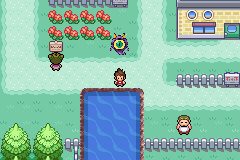
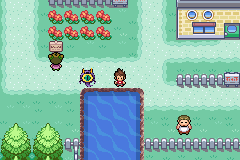
fix: aligner la hauteur des quatre vues de la Patrouille sur Nathan

Changed region(s): [[0.4375, 0.1875, 0.5542, 0.3438], [0.3208, 0.4375, 0.4083, 0.5625]]

diff --git a/tools/yokai/convertir_patrouille_oni.py b/tools/yokai/convertir_patrouille_oni.py
@@ -5,12 +5,15 @@ from PIL import Image
 import json,hashlib
 R=Path(__file__).resolve().parents[2];D=R/'graphics/yokai_characters/patrouille_oni';P=R/'docs/patrouille-oni-20261024';P.mkdir(exist_ok=True)
 source=D/'source/planche-generee.png';im=Image.open(source).convert('RGBA')
+reference=Image.open(R/'graphics/yokai_characters/nathan/normal.png').convert('RGBA').crop((0,0,16,32)).getbbox()
+assert reference
+height=reference[3]-reference[1];baseline=reference[3]
 colors=[(0,0,0),(24,8,32),(64,32,88),(88,56,120),(120,88,160),(160,128,200),(200,176,224),(0,72,56),(8,152,112),(56,216,168),(184,104,8),(248,176,16),(232,184,48),(248,224,80),(248,248,144),(248,248,216)]
 flat=[v for c in colors for v in c]+[0]*720;sheet=Image.new('P',(128,32));sheet.putpalette(flat);boxes=[]
 for n,(x0,x1) in enumerate([(35,510),(575,1050),(1125,1560),(1700,2130)]):
  p=im.crop((x0,90,x1,620));p.putalpha(p.getchannel('A').point(lambda a:255 if a>=128 else 0));b=p.getbbox();assert b;boxes.append([x0+b[0],90+b[1],x0+b[2],90+b[3]])
- p=p.crop(b);p=p.resize((round(p.width*22/p.height),22),Image.Resampling.NEAREST)
- q=Image.new('P',p.size);q.putpalette(flat);q.putdata([0 if a<128 else min(range(1,16),key=lambda j:sum((v-colors[j][k])**2 for k,v in enumerate((r,g,b)))) for r,g,b,a in p.get_flattened_data()]);sheet.paste(q,(n*32+(32-p.width)//2,9))
+ p=p.crop(b);p=p.resize((round(p.width*height/p.height),height),Image.Resampling.NEAREST)
+ q=Image.new('P',p.size);q.putpalette(flat);q.putdata([0 if a<128 else min(range(1,16),key=lambda j:sum((v-colors[j][k])**2 for k,v in enumerate((r,g,b)))) for r,g,b,a in p.get_flattened_data()]);sheet.paste(q,(n*32+(32-p.width)//2,baseline-height))
 sheet.save(D/'overworld.png',transparency=0);sheet.save(P/'quatre-vues.png',transparency=0);sheet.convert('RGBA').resize((768,192),Image.Resampling.NEAREST).save(P/'quatre-vues-x6.png')
 (D/'normal.pal').write_text('JASC-PAL\n0100\n16\n'+'\n'.join(' '.join(map(str,c)) for c in colors)+'\n')
-(D/'CONVERSION.json').write_text(json.dumps(dict(source_sha256=hashlib.sha256(source.read_bytes()).hexdigest(),frame_size=[32,32],visible_height=22,order=['face','dos','gauche','droite'],source_boxes=boxes,method='alpha threshold, nearest-neighbor reduction, common 15-color GBA palette; no repainted shapes'),indent=2)+'\n')
+(D/'CONVERSION.json').write_text(json.dumps(dict(source_sha256=hashlib.sha256(source.read_bytes()).hexdigest(),frame_size=[32,32],visible_height=height,baseline=baseline,nathan_visible_bbox=reference,order=['face','dos','gauche','droite'],source_boxes=boxes,method='alpha threshold, nearest-neighbor reduction, common 15-color GBA palette; no repainted shapes'),indent=2)+'\n')

diff --git a/tools/yokai/capturer_patrouille_oni_mgba.py b/tools/yokai/capturer_patrouille_oni_mgba.py
@@ -13,9 +13,15 @@ groups=json.loads((ROOT/'data/maps/map_groups.json').read_text());maps={n:(i,j) 
 try:
  r.call('CreateMon',r.symbols['gPlayerParty'],1,50,31,1,12345,0,0);r.write(r.symbols['gPlayerPartyCount'],b'\1')
  g,n=maps['PalletTown'];r.call('SetWarpDestination',g,n,255,9,16);r.call('WarpIntoMap');r.call('SetMainCallback2',r.symbols['CB2_LoadMap']|1);r.run(400)
- r.call('LockPlayerFieldControls');idx=r.call('SpawnSpecialObjectEventParameterized',183,8,200,9+7,14+7,3);assert idx<16
+ r.call('LockPlayerFieldControls');idx=r.call('SpawnSpecialObjectEventParameterized',183,8,200,7+7,16+7,3);assert idx<16
  obj=r.symbols['gObjectEvents']+36*idx;r.run(30);sprite=r.symbols['gSprites']+68*r.read(obj+4,1)[0]
  raw=(ROOT/'graphics/yokai_characters/patrouille_oni/overworld.4bpp').read_bytes();assert len(raw)==2048
+ reference=Image.open(ROOT/'graphics/yokai_characters/nathan/normal.png').convert('RGBA').crop((0,0,16,32)).getbbox()
+ patrol=Image.open(ROOT/'graphics/yokai_characters/patrouille_oni/overworld.png').convert('RGBA')
+ for i in range(4):
+  bounds=patrol.crop((i*32,0,i*32+32,32)).getbbox()
+  assert bounds[1]==reference[1] and bounds[3]==reference[3],(i,bounds,reference)
+ checks.append(dict(test='Four poses match Nathan visible height and baseline',height=reference[3]-reference[1],baseline=reference[3],passed=True))
  assert r.read(r.symbols['gObjectEventPic_PatrouilleOni'],2048)==raw
  bank=int.from_bytes(r.read(sprite+4,2),'little')>>12
  assert r.read(r.symbols['gPlttBufferUnfaded']+512+32*bank,32)==r.read(r.symbols['gObjectEventPal_PatrouilleOni'],32)

diff --git a/docs/patrouille-oni-20261024/RAPPORT.md b/docs/patrouille-oni-20261024/RAPPORT.md
@@ -1,8 +1,10 @@
 # Patrouille Oni : quatre orientations dans mGBA
 
-[Aperçu dans le jeu, agrandi ×3](public/quatre-directions-mgba-x3.gif) : face, dos, gauche, droite. La créature reste sur place au-dessus de Nathan à Bourg Palette. [Planche transparente](quatre-vues.png).
+[Aperçu dans le jeu, agrandi ×3](public/quatre-directions-mgba-x3.gif) : face, dos, gauche, droite. La créature reste sur place à gauche de Nathan à Bourg Palette pour comparer leurs tailles. [Planche transparente](quatre-vues.png).
 
-Les quatre vues viennent de la planche générée du chat : conversion au plus proche voisin en quatre images de 32 × 32 pixels, silhouette de 22 pixels, quinze couleurs opaques et une transparence. Le dos n'a pas d'œil et les profils conservent leurs images distinctes.
+La taille est calculée depuis les pixels opaques du sprite de Nathan : même sommet (ligne 12), même base (ligne 31), soit 19 pixels sur les quatre vues, en gardant les proportions de la créature.
+
+Les quatre vues viennent de la planche générée du chat : conversion au plus proche voisin en quatre images de 32 × 32 pixels, silhouette de 19 pixels, exactement la hauteur visible de Nathan, quinze couleurs opaques et une transparence. Le dos n'a pas d'œil et les profils conservent leurs images distinctes.
 
 L'acteur est temporaire dans le banc de démonstration. Aucun événement d'aventure, sauvegarde utilisateur ou personnage existant n'est modifié. Le nouvel identifiant graphique est disponible pour une intégration ultérieure. La table d'orientation est enregistrée dans le moteur des poses immobiles pour que les rotations natives mettent effectivement les tuiles à jour ; aucune nouvelle animation de marche n'est inventée.
 
